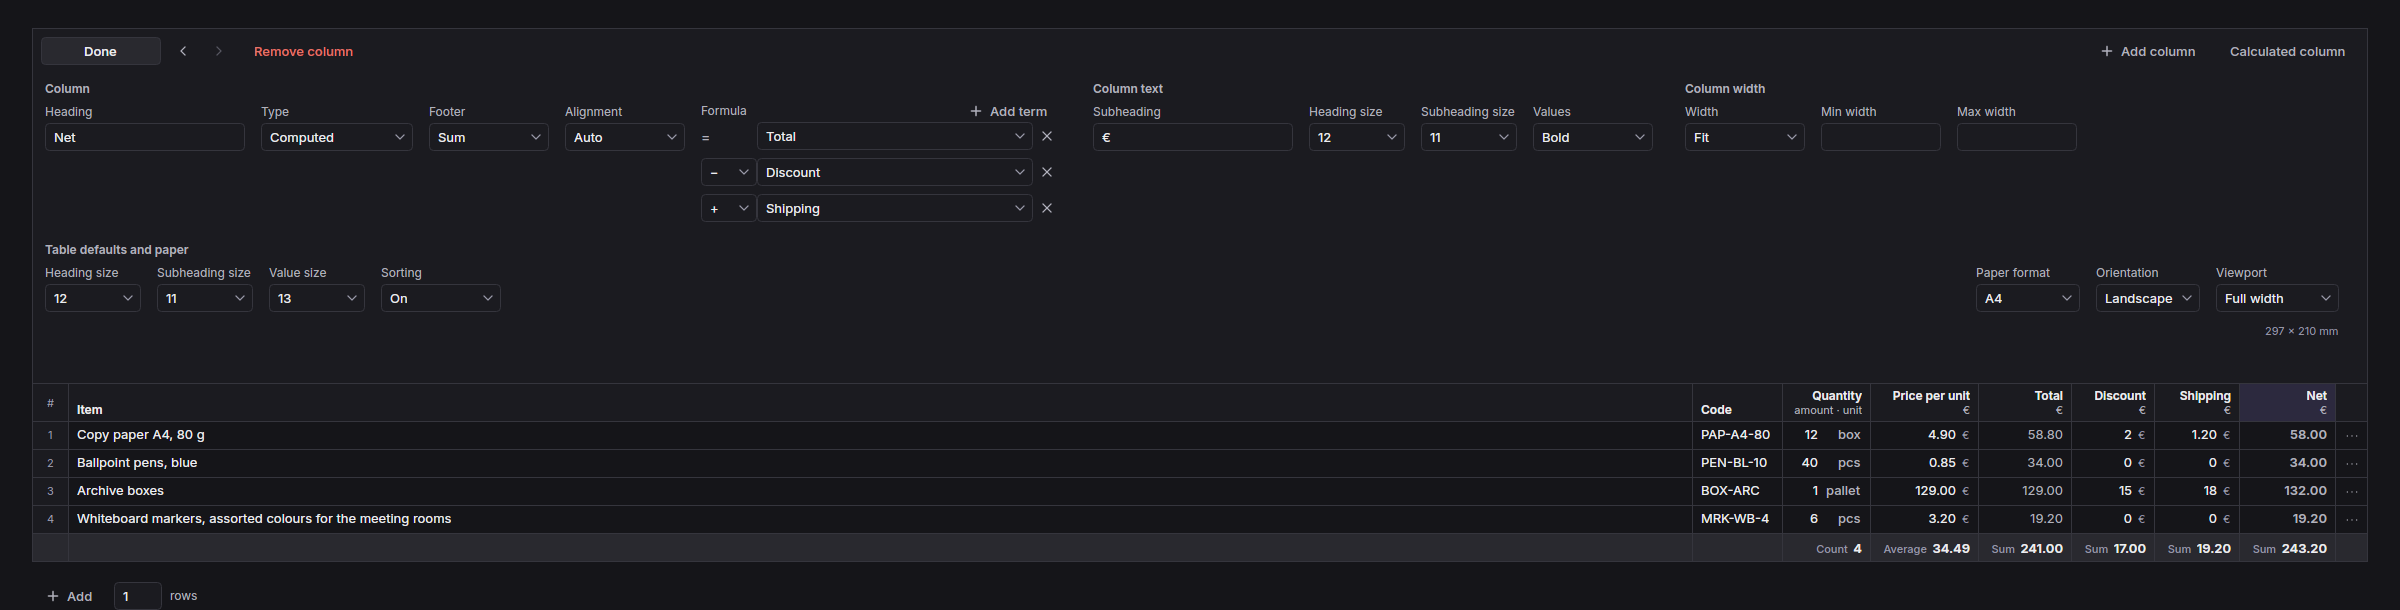
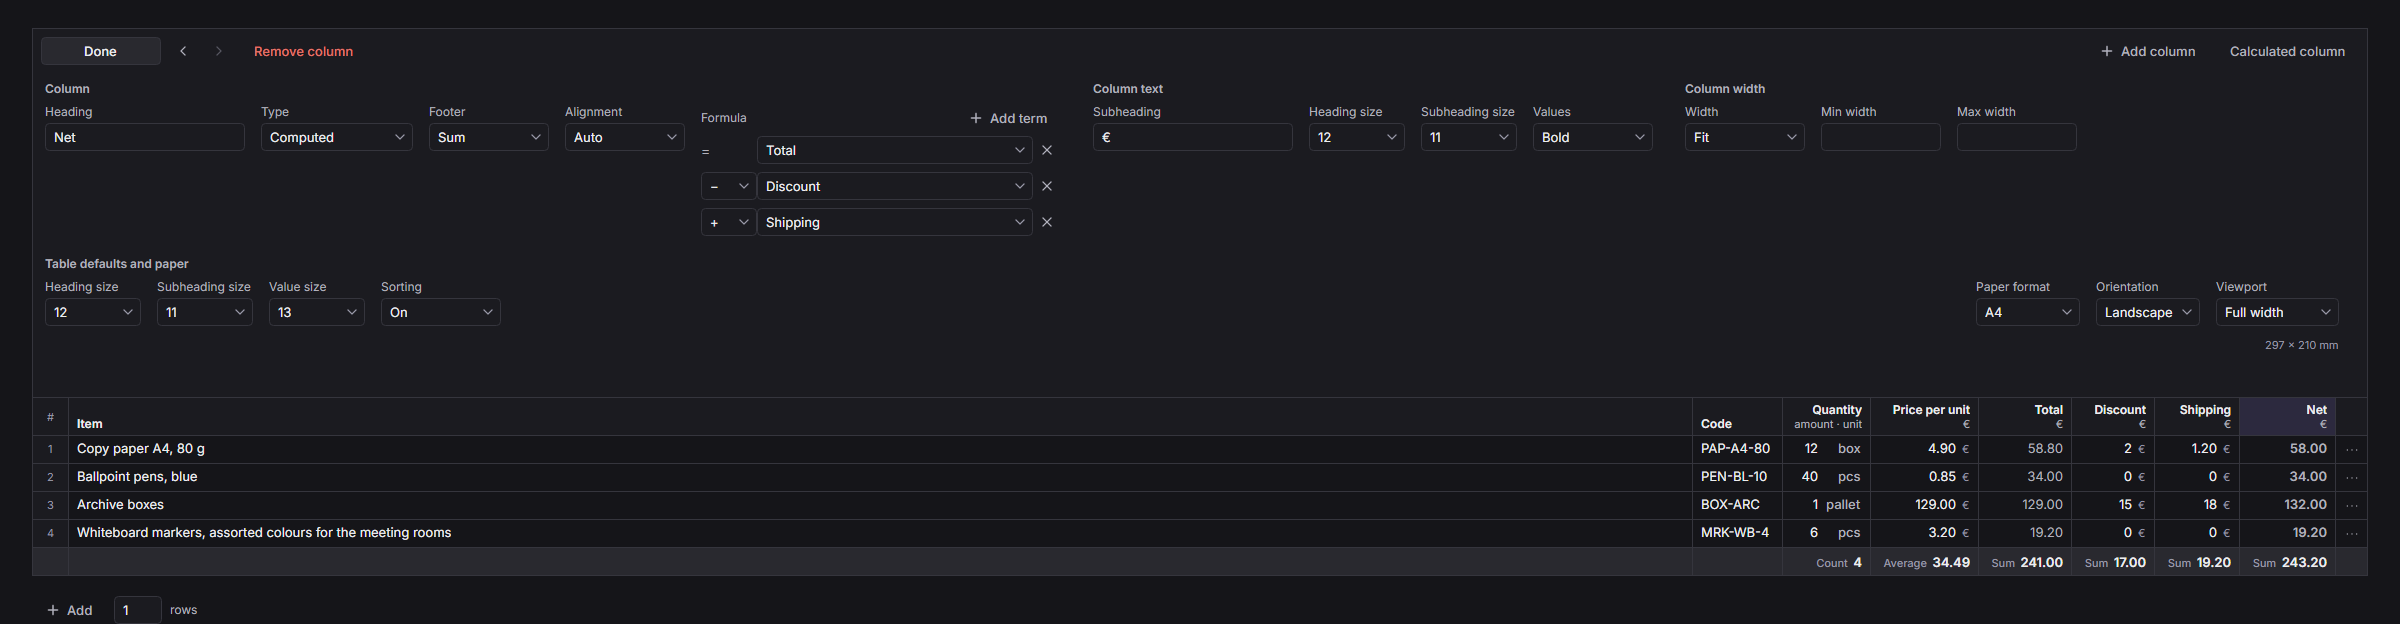
Fix EditableTable ribbon expansion and formula heading spacing

diff --git a/docs/shade.js b/docs/shade.js
@@ -654,7 +654,7 @@
     var groups = document.createElement('div'); groups.className = 'grid-ribbon-groups'; ribbon.appendChild(groups);
     var wrappers = panels.map(function (panel, i) { var wrap = document.createElement('div'); wrap.className = 'grid-ribbon-group'; var label = document.createElement('div'); label.className = 'grid-group-label'; label.id = box.id + '-group-' + i; label.textContent = groupLabels[i]; wrap.appendChild(label); wrap.appendChild(panel); groups.appendChild(wrap); return wrap; });
     var textMeasure = document.createElement('canvas').getContext('2d');
-    var expandedRibbon = false, keepRibbonTabs = false;
+    var expandedRibbon = false;
     function showTab(index) { activePane = index; layoutRibbon(false); }
     textTabs(box.querySelector('.grid-ribbon-tabs'));
     tabs.forEach(function (tab, i) { tab.addEventListener('click', function () { closeOpen(); showTab(i); }); });
@@ -731,8 +731,6 @@
       var used = expanded ? primary : natural[activePane];
       if (!expanded) [0, 2, 1].forEach(function (i) { if (visible[i]) return; var extra = wrappers[i].hidden ? 24 : 0; if (used + 24 + natural[i] + extra <= width) { visible[i] = true; used += 24 + natural[i]; } });
       var strip = box.querySelector('.grid-ribbon-tabs');
-      if (!expanded) keepRibbonTabs = false; else if (strip.contains(document.activeElement)) keepRibbonTabs = true;
-      strip.hidden = expanded && !keepRibbonTabs;
       var labelled = visible.filter(Boolean).length > 1;
       wrappers.forEach(function (wrap, i) {
         var ownRow = i === 3 && expanded && used + 24 + natural[3] > width;
@@ -740,6 +738,11 @@
         wrap.style.width = !labelled || ownRow ? '100%' : Math.min(natural[i], width) + 'px';
         panels[i].setAttribute('role', labelled ? 'group' : 'tabpanel'); panels[i].setAttribute('aria-labelledby', box.id + (labelled ? '-group-' : '-tab-') + i);
       });
+      if (expanded && strip.contains(document.activeElement)) {
+        var target = wrappers[activePane].querySelector('input:not(:disabled), button:not(:disabled)');
+        (target || edit).focus();
+      }
+      strip.hidden = expanded;
     }
     function num(t) { t = String(t == null ? '' : t).trim().replace(/\s/g, '').replace(',', '.'); return /^[+-]?(?:\d+(?:\.\d*)?|\.\d+)(?:e[+-]?\d+)?$/i.test(t) && Number.isFinite(Number(t)) ? Number(t) : NaN; }
     function value(r, c, depth) {

diff --git a/docs/shade.css b/docs/shade.css
@@ -558,8 +558,8 @@ mark.s-hit { padding: 0 1px; margin: 0 -1px; border-radius: 2px; background: var
   .s-grid .scroll { overflow: visible; }
 }
 
-.s-grid .grid-formula-head { display: flex; align-items: center; justify-content: space-between; gap: 8px; height: 14px; }
-.s-grid .grid-formula-head .add-term { position: absolute; right: 0; top: -8px; min-width: 0; padding: 0 8px; }
+.s-grid .grid-formula-head { display: flex; align-items: center; justify-content: space-between; gap: 8px; }
+.s-grid .grid-formula-head .add-term { min-width: 0; padding: 0 8px; }
 .s-grid .grid-units { flex: 1 1 240px; max-width: 420px; }
 .s-grid .grid-units-hint { display: block; margin-top: 4px; color: var(--text-3); font: 400 11px Inter, sans-serif; }
 .s-grid .grid-units-error { color: var(--danger-text); font: 400 11px Inter, sans-serif; }

diff --git a/tests/Shade.Tests/Program.cs b/tests/Shade.Tests/Program.cs
@@ -510,8 +510,8 @@ namespace Shade.Tests
                         window.Width = 840; tabs.SetActive(3); Settle();
                         var tableTab = (Control)table.GetVisualDescendants().OfType<TextBlock>().Single(t => t.Text == "Table").Parent!;
                         tableTab.Focus(Avalonia.Input.NavigationMethod.Tab); Settle(); window.Width = 2400; Settle(); Settle();
-                        beforeFocus = paperChoice.TranslatePoint(default, table); paperChoice.Focus(Avalonia.Input.NavigationMethod.Pointer); Settle(); Settle();
-                        Ok(paperChoice.TranslatePoint(default, table) == beforeFocus && tabs.IsVisible, "widening from a focused tab retains the strip so focusing a field does not shift the ribbon");
+                        paperChoice.Focus(Avalonia.Input.NavigationMethod.Pointer); Settle(); Settle();
+                        Ok(!tabs.IsVisible && paperChoice.IsFocused, "leaving a focused tab for a field hides redundant tabs in the expanded ribbon without losing focus");
                     }
                     tabs.SetActive(3); Settle(); var preview = table.GetVisualDescendants().OfType<ChoiceButton>().Single(c => c.Items.Contains("Full width"));
                     ((Avalonia.Automation.Provider.IExpandCollapseProvider)Avalonia.Automation.Peers.ControlAutomationPeer.CreatePeerForElement(preview)!).Expand(); Settle();
@@ -528,6 +528,55 @@ namespace Shade.Tests
                 }
             }
             finally { Look.Translate = null; Look.Configure(new ShadeOptions()); }
+        }
+
+        static void RibbonTabVisibility()
+        {
+            try
+            {
+                foreach (var scale in new[] { 1d, 2d })
+                    foreach (var mode in new[] { Look.Mode.Dark, Look.Mode.Light })
+                    {
+                        Look.Configure(new ShadeOptions { TextScale = scale, ReducedMotion = true }); SetMode(mode);
+                        var column = new EditableTable.Column("a", "Value");
+                        var table = new EditableTable { ShowColumnEditor = true, Design = true, Columns = new List<EditableTable.Column> { column } };
+                        var window = new Window { Width = 840, Height = 1200, Content = table }; window.Show();
+                        void Settle() { Dispatcher.UIThread.RunJobs(); AvaloniaHeadlessPlatform.ForceRenderTimerTick(); Dispatcher.UIThread.RunJobs(); }
+                        Settle();
+                        var tabs = table.GetVisualDescendants().OfType<TextTabs>().Single();
+                        var toolbar = table.GetVisualDescendants().OfType<ActionButton>().Single(b => b.Content?.ToString() == "Done");
+                        var field = table.GetVisualDescendants().OfType<Field>().First();
+                        var header = table.GetVisualDescendants().OfType<TextBlock>().Single(t => t.Text == "Value").GetVisualAncestors().OfType<Control>().First(c => c.Focusable);
+                        foreach (var keyboard in new[] { false, true })
+                            for (int pane = 0; pane < 4; pane++)
+                                foreach (var target in new Control[] { field.Box, header, toolbar })
+                                {
+                                    toolbar.Focus(); window.Width = 840; Settle(); Settle(); tabs.SetActive((pane + 1) % 4); Settle();
+                                    var tab = (Control)tabs.GetVisualDescendants().OfType<TextBlock>().Single(t => t.Text == new[] { "Column", "Text", "Width", "Table" }[pane]).Parent!;
+                                    if (keyboard)
+                                    {
+                                        tab.Focus(Avalonia.Input.NavigationMethod.Tab);
+                                        window.KeyPress(Avalonia.Input.Key.Enter, Avalonia.Input.RawInputModifiers.None, Avalonia.Input.PhysicalKey.None, null);
+                                        window.KeyRelease(Avalonia.Input.Key.Enter, Avalonia.Input.RawInputModifiers.None, Avalonia.Input.PhysicalKey.None, null);
+                                    }
+                                    else
+                                    {
+                                        var at = tab.TranslatePoint(new Point(2, 2), window)!.Value;
+                                        window.MouseDown(at, Avalonia.Input.MouseButton.Left); window.MouseUp(at, Avalonia.Input.MouseButton.Left);
+                                    }
+                                    Settle(); window.Width = 4800; Settle(); Settle();
+                                    Ok(tabs.Active == pane && !tabs.IsVisible && !tab.IsFocused && table.IsKeyboardFocusWithin, $"{mode} {scale}x pane {pane} keyboard={keyboard}: expansion moves focus into the selected group and hides tabs");
+                                    target.Focus(); Settle(); Settle();
+                                    Ok(!tabs.IsVisible && target.IsFocused && table.CurrentColumn == column, $"{mode} {scale}x pane {pane} keyboard={keyboard}: leaving tabs hides the wide strip and preserves column/focus");
+                                    window.Width = 840; Settle(); Settle();
+                                    Ok(tabs.IsVisible, $"{mode} {scale}x: restoring compact width restores tab access");
+                                    window.Width = 4800; Settle(); Settle();
+                                    Ok(!tabs.IsVisible, $"{mode} {scale}x: repeated expansion matches wide layout without prior tab focus");
+                                }
+                        window.Close();
+                    }
+            }
+            finally { Look.Configure(new ShadeOptions()); SetMode(Look.Mode.Dark); }
         }
 
         static void ColumnRibbonLayouts()
@@ -550,6 +599,16 @@ namespace Shade.Tests
                         Ok(format.IsEffectivelyVisible, $"{mode} {scale}x: native paper controls follow the Table tab");
                         tabs.SetActive(0); table.CurrentColumn!.Kind = EditableTable.Kind.Computed; table.CurrentColumn.Terms.Add(new EditableTable.Term("missing")); table.CurrentColumn.Terms.Add(new EditableTable.Term("missing", EditableTable.Op.Subtract)); table.Refresh(); Settle(); Settle();
                         Ok(table.GetVisualDescendants().OfType<ChoiceButton>().Where(c => c.IsEffectivelyVisible).All(c => { var p = c.TranslatePoint(default, table)!.Value; return p.X >= 0 && p.X + c.Bounds.Width <= table.Bounds.Width + 1; }), $"{mode} {scale}x: native formula dropdowns stay inside the ribbon");
+                        foreach (double width in new[] { 920d, 4800, 920 })
+                        {
+                            window.Width = width; Settle(); Settle();
+                            var addTerm = table.GetVisualDescendants().OfType<ActionButton>().Single(b => b.Content?.ToString() == "Add term");
+                            var formulaHead = (Grid)addTerm.Parent!;
+                            var terms = (ScrollViewer)((StackPanel)formulaHead.Parent!).Children[1];
+                            var buttonTop = addTerm.TranslatePoint(default, table)!.Value.Y;
+                            var termsTop = terms.TranslatePoint(default, table)!.Value.Y;
+                            Ok(buttonTop + addTerm.Bounds.Height + 4 * scale <= termsTop + 0.5, $"{mode} {scale}x at {width}: Add term reserves its height above the first formula source");
+                        }
                         Ok(table.GetVisualDescendants().OfType<ChoiceButton>().Where(c => c.Items.SequenceEqual(new[] { "+", "−", "×", "÷" })).All(c => c.GetVisualDescendants().OfType<TextBlock>().Any(t => t.Text == "−" && t.Bounds.Height > 0 && t.Bounds.Width >= Look.Measure("−", Ui(TextSize.Body)))), $"{mode} {scale}x: native formula operator symbols remain readable");
                         window.Close();
                     }
@@ -1668,6 +1727,7 @@ namespace Shade.Tests
             VirtualRows();
             AccessibleEditors();
             CalendarLimits();
+            RibbonTabVisibility();
             LiveLanguage();
             LanguageLifetime();
             Activation();

diff --git a/src/Shade/Controls/EditableTable.RibbonLayout.cs b/src/Shade/Controls/EditableTable.RibbonLayout.cs
@@ -3,7 +3,10 @@ using System.Collections.Generic;
 using System.Linq;
 using Avalonia;
 using Avalonia.Controls;
+using Avalonia.Input;
 using Avalonia.Layout;
+using Avalonia.Threading;
+using Avalonia.VisualTree;
 using static Shade.Look;
 
 namespace Shade;
@@ -12,7 +15,7 @@ public sealed partial class EditableTable
 {
     readonly RibbonFlow ribbonGroups = new();
     readonly List<TextBlock> ribbonGroupLabels = new();
-    bool ribbonExpanded, keepRibbonTabs;
+    bool ribbonExpanded;
 
     static StackPanel RibbonField(string label, Control input, double minimum)
     {
@@ -68,12 +71,19 @@ public sealed partial class EditableTable
                 if (used + M(24) + natural[i] + extra <= width) { visible[i] = true; used += M(24) + natural[i]; }
             }
         }
-        if (!expanded) keepRibbonTabs = false;
-        else if (columnTabs.IsKeyboardFocusWithin) keepRibbonTabs = true;
-        columnTabs.IsVisible = !expanded || keepRibbonTabs;
+        columnTabs.IsVisible = !expanded || columnTabs.IsKeyboardFocusWithin;
         ribbonGroups.LastOnOwnRow = expanded && used + M(24) + natural[3] > width;
         bool labels = visible.Count(x => x) > 1;
         for (int i = 0; i < visible.Length; i++) { ribbonGroupLabels[i].IsVisible = labels; ribbonGroups.Children[i].IsVisible = visible[i]; }
+        // Hand focus to the expanded group before removing its tab stop.
+        if (expanded && columnTabs.IsKeyboardFocusWithin)
+            Dispatcher.UIThread.Post(() =>
+            {
+                if (!ribbonExpanded || !columnTabs.IsKeyboardFocusWithin) return;
+                var target = ribbonGroups.Children[columnTabs.Active].GetVisualDescendants().OfType<Control>().FirstOrDefault(c => c.Focusable && c.IsTabStop && c.IsEffectivelyEnabled && c.IsEffectivelyVisible);
+                (target ?? editColumns).Focus(NavigationMethod.Tab);
+                ribbonGroups.InvalidateMeasure();
+            });
     }
 
     // Content-sized flow is local to the ribbon; form-card Masonry keeps its equal-column contract.

diff --git a/src/Shade/Controls/EditableTable.ColumnEditor.cs b/src/Shade/Controls/EditableTable.ColumnEditor.cs
@@ -86,7 +86,7 @@ public sealed partial class EditableTable
         var addTerm = Words(new ActionButton("Add term", ButtonKind.Ghost, Icons.Plus), b => b.Content = T("Add term"));
         columnEditorSync.Add(c => { addTerm.IsEnabled = columns.Any(x => x != c && Numeric(x)); ToolTip.SetTip(addTerm, addTerm.IsEnabled ? null : T("Add a numeric column first")); });
         addTerm.VerticalAlignment = VerticalAlignment.Center;
-        var formulaHead = new Grid { Height = M(14), ColumnDefinitions = new ColumnDefinitions("*,Auto"), Children = { Words(Build.Text("", Text2, TextSize.Label), text => text.Text = T("Formula")), addTerm } }; Grid.SetColumn(addTerm, 1);
+        var formulaHead = new Grid { ColumnDefinitions = new ColumnDefinitions("*,Auto"), Children = { Words(Build.Text("", Text2, TextSize.Label), text => { text.Text = T("Formula"); text.VerticalAlignment = VerticalAlignment.Center; }), addTerm } }; Grid.SetColumn(addTerm, 1);
         formulaEditor.Width = M(360); formulaEditor.Margin = new Thickness(0, 0, M(16), M(12)); formulaEditor.Children.Add(formulaHead);
         formulaEditor.Children.Add(new ScrollViewer { Content = formulaTerms, MaxHeight = M(172), HorizontalScrollBarVisibility = Avalonia.Controls.Primitives.ScrollBarVisibility.Disabled });
         columnPanes[0].Children.Add(formulaEditor);
